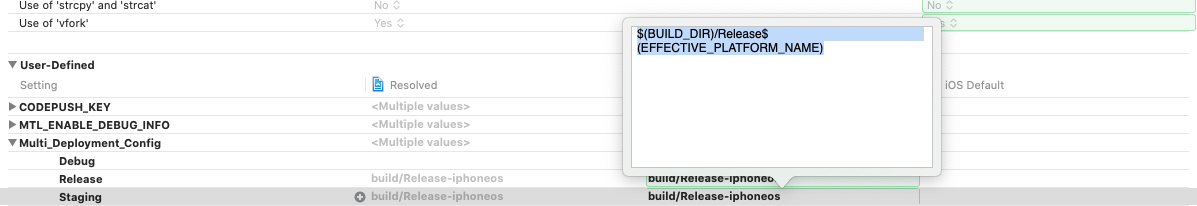
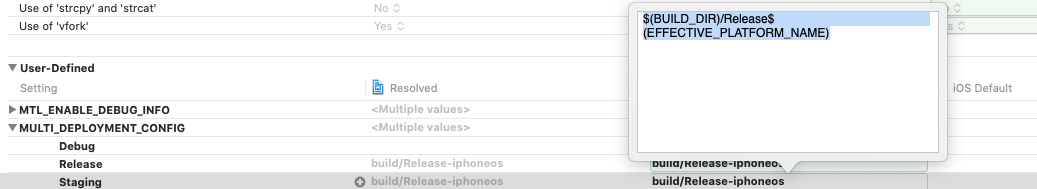
Correct text style

diff --git a/docs/distribution/codepush/rn-deployment.md b/docs/distribution/codepush/rn-deployment.md
@@ -212,7 +212,7 @@ To set this up, perform the following steps:
 
     ![Setting](./images/rn-ios-10.png)
 
-    Name this new setting something like **Multi_Deployment_Config**. Go to the setting and add value `$(BUILD_DIR)/$(CONFIGURATION)$(EFFECTIVE_PLATFORM_NAME)` for **Release**. After that add value `$(BUILD_DIR)/Release$(EFFECTIVE_PLATFORM_NAME)` for **Staging**.
+    Name this setting **MULTI_DEPLOYMENT_CONFIG**. Go to the setting and add value `$(BUILD_DIR)/$(CONFIGURATION)$(EFFECTIVE_PLATFORM_NAME)` for **Release**. After that add value `$(BUILD_DIR)/Release$(EFFECTIVE_PLATFORM_NAME)` for **Staging**.
 
     ![MultiDeploymentConfig](./images/rn-ios-13.png)
 
@@ -226,7 +226,7 @@ To set this up, perform the following steps:
 
 8. Click the **+** button again on the toolbar and select **Add User-Defined Setting**
 
-    Name this new setting something like `CODEPUSH_KEY`, expand it, and specify your **Staging** deployment key for the **Staging** config and your **Production** deployment key for the **Release** config.
+    Name this setting `CODEPUSH_KEY`, expand it, and specify your **Staging** deployment key for the **Staging** configuration and your **Production** deployment key for the **Release** configuration.
 
     ![Setting Keys](./images/rn-ios-11.png)
 
